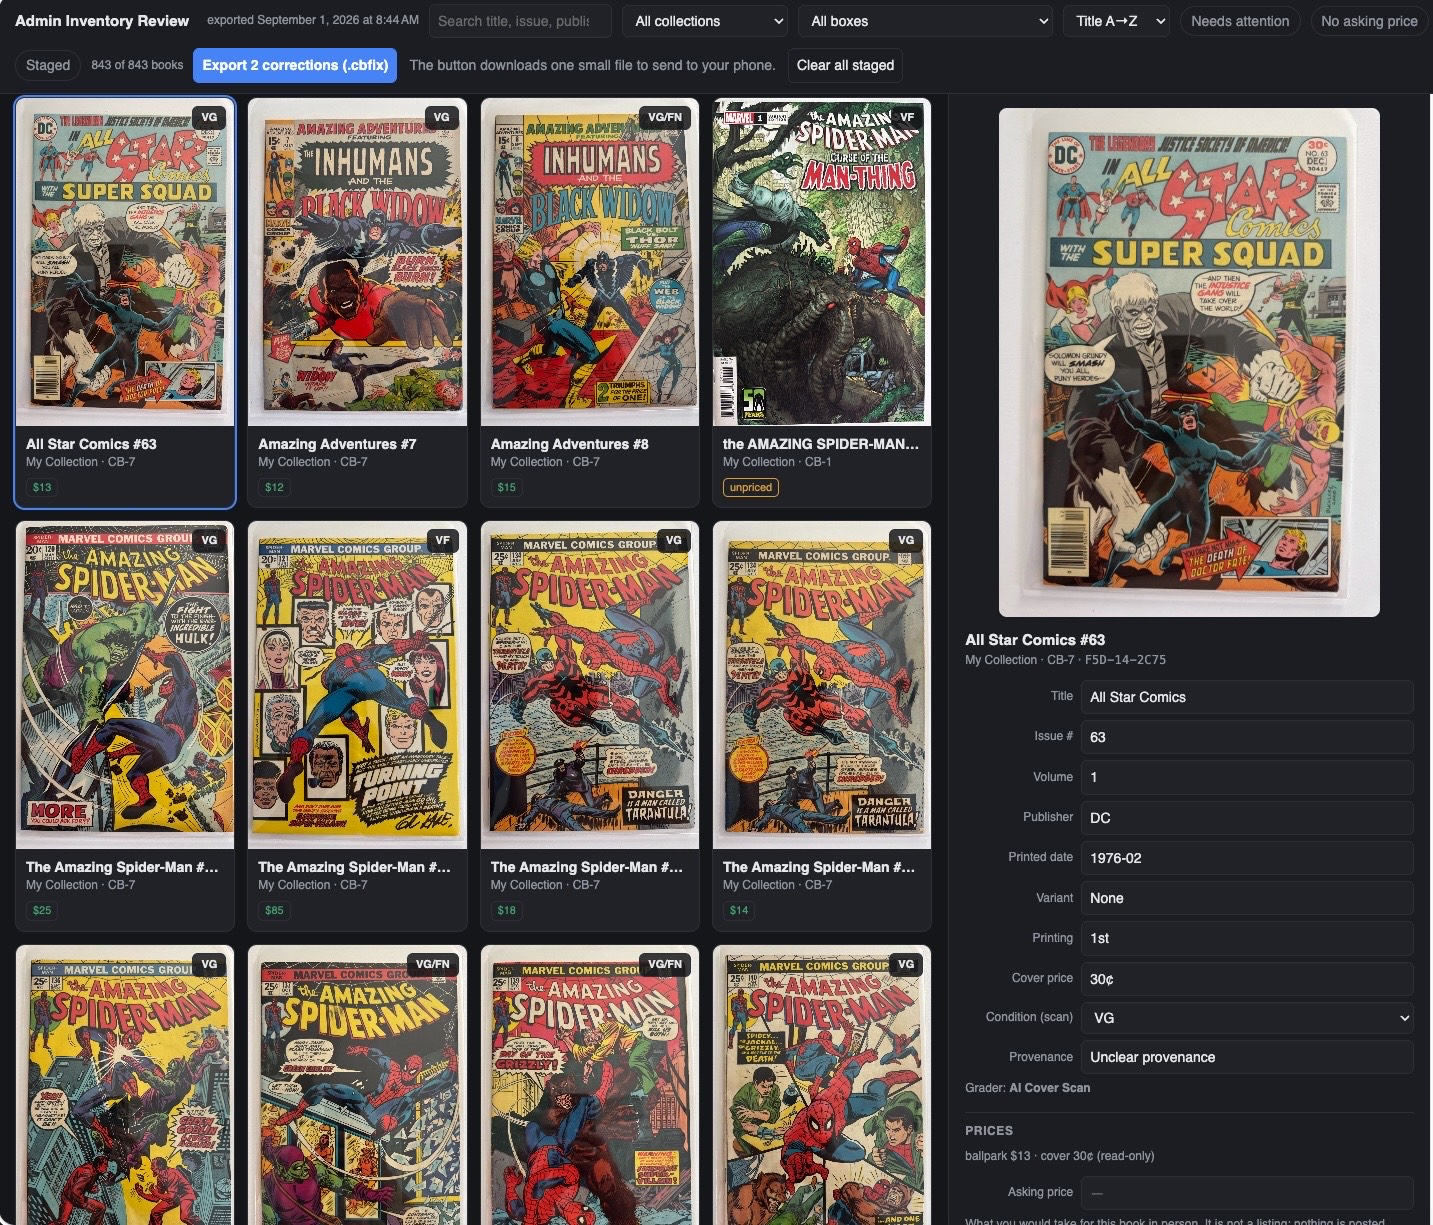
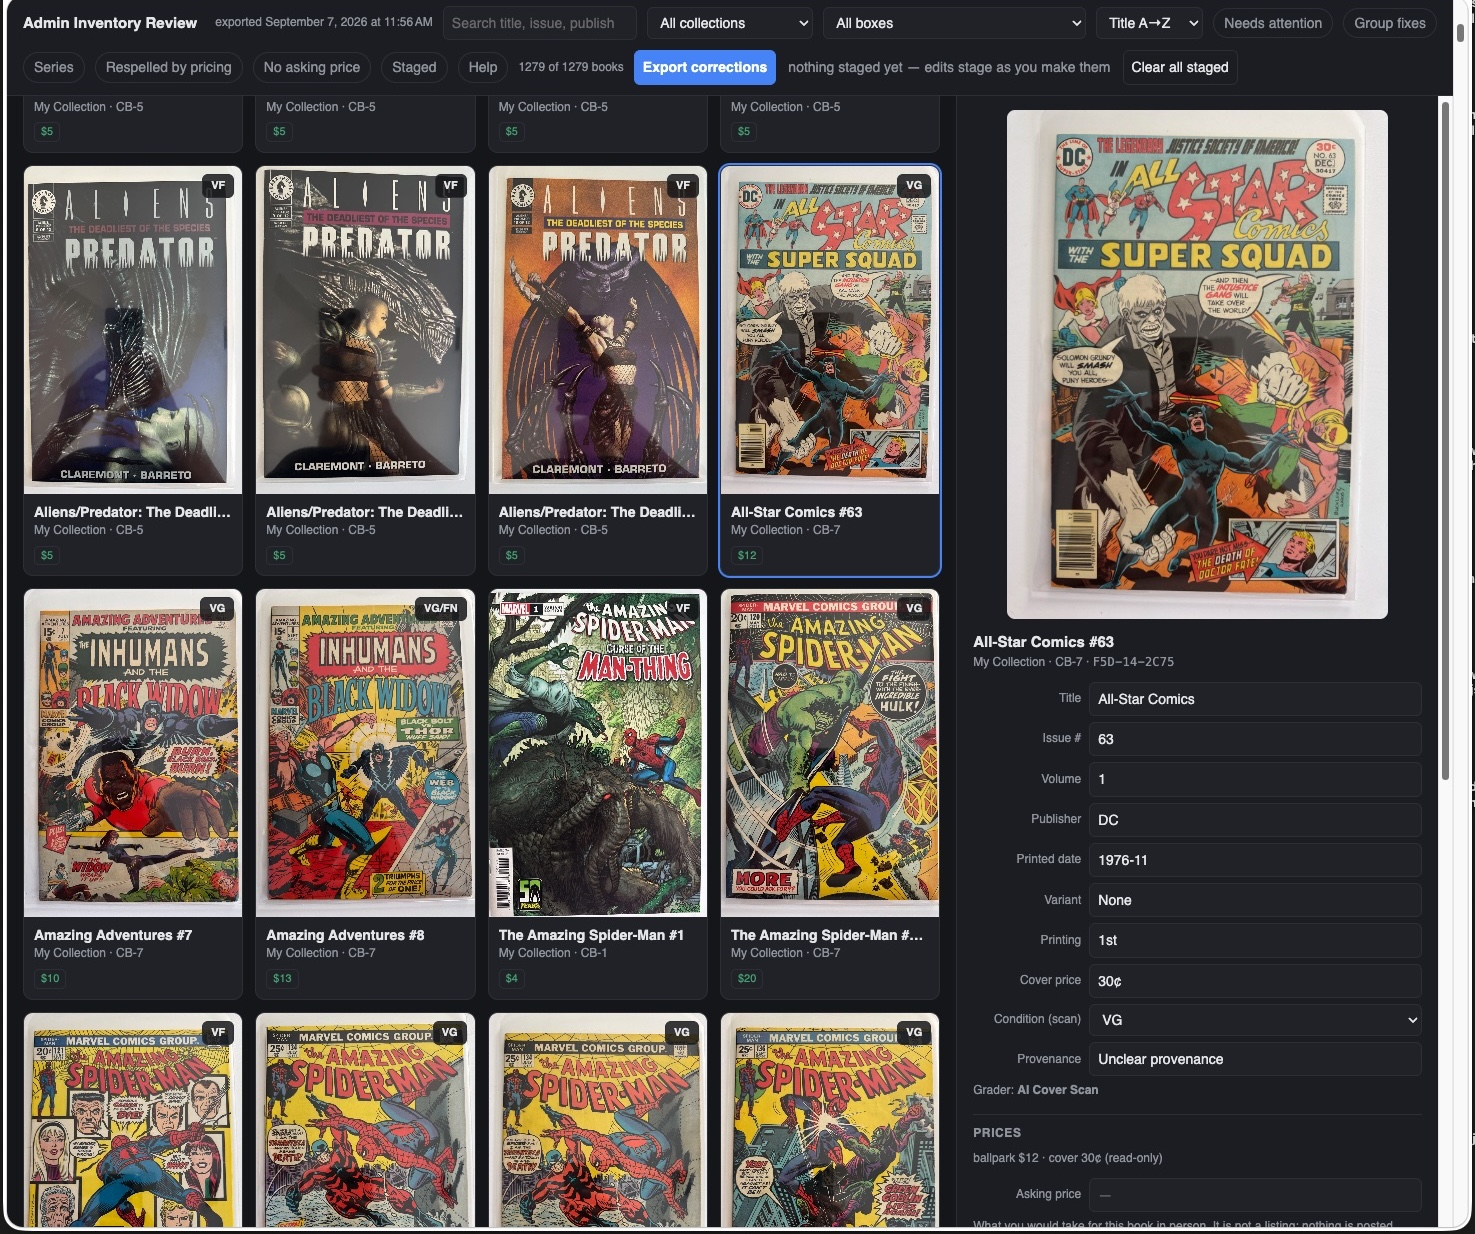
The admin desk shows its new filter row, and a book under the pen

diff --git a/howto/admin-review.html b/howto/admin-review.html
@@ -223,8 +223,8 @@
     collection. Nothing lives there, nothing drifts, and the phone remains the
     record the workbench answers to.</p>
     <figure class="screen">
-      <img src="../images/admin-review.jpg" width="1433" height="1225" loading="lazy"
-           alt="The Admin Inventory Review page: 843 books as a cover grid with grade chips and prices, Needs attention and No asking price filters, an Export 2 corrections button, and a side panel editing All Star Comics #63 with its condition dropdown, provenance field, and a Grader line reading AI Cover Scan." />
+      <img src="../images/admin-review.jpg" width="1475" height="1234" loading="lazy"
+           alt="The Admin Inventory Review page: 1,279 books as a cover grid with grade chips and prices, filters for Needs attention, Group fixes, Series, Respelled by pricing, No asking price, and Staged, the Export corrections button, and a side panel editing All-Star Comics #63 with its title, issue, volume, publisher, printed date, printing, cover price, condition dropdown, provenance field, and a Grader line reading AI Cover Scan." />
       <figcaption>The whole inventory on a desk: filters find the work, the panel
         fixes the book, and one small file carries it all back to the phone.</figcaption>
     </figure>

diff --git a/README.md b/README.md
@@ -116,7 +116,7 @@ delete the raw. One copy per picture.
 
 | File | Pages | What is stale | Shoot |
 |---|---|---|---|
-| `admin-review.jpg` | admin how-to | "the AMAZING SPIDER-MAN" beside "The Amazing Spider-Man"; and the page gained series rows on 2026-09-07 | Desktop: export Admin review, open on the Mac, screenshot the grid with a series row open. Resize to about 1400 wide. The how-to has no paragraph on series rows yet |
+| `admin-review.jpg` | admin how-to | **Done 2026-09-07**: 1,279 books, consistent titles, the new filter row, the side panel on All-Star Comics #63 | The how-to still has no paragraph on series rows |
 | `after-the-show-1.jpg` | after-the-show scenario | "BATMAN" under "Fantastic Four" and "Green Lantern" | Box menu open over a box list, Audit box visible |
 | `after-the-show-3.jpg` | after-the-show scenario, accuracy how-to | Not-seen list mixes "BATMAN #515" with "Green Lantern #49" | Audit summary on a big box, so the not-seen list is long (the scenario tells a 107-book story) |
 | `after-the-show-5.jpg` | after-the-show scenario | "BATMAN" row at the bottom of the issues list | Inventory Issues list with covers, grades, values |
